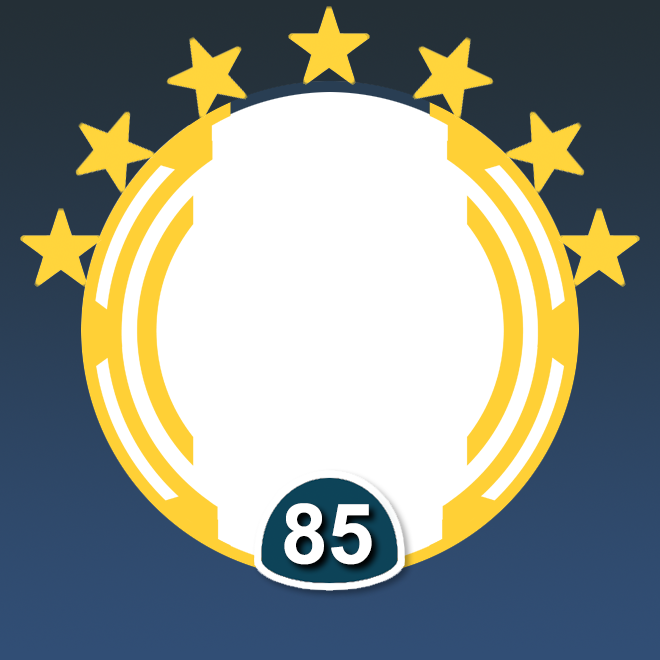
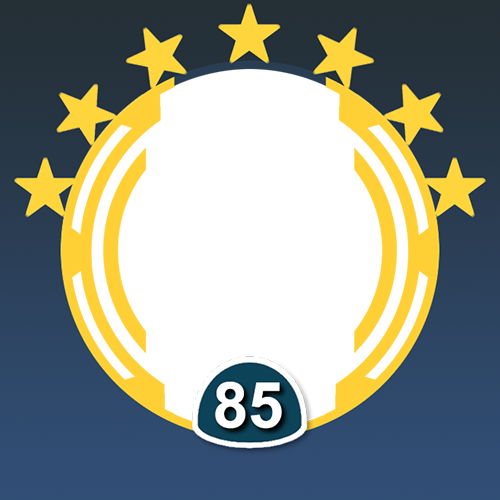
stars vs no stars

diff --git a/photo.js b/photo.js
@@ -11,13 +11,14 @@ $(document).ready(function() {
 	//	input.addEventListener( 'focus', function(){ input.classList.add( 'has-focus' ); });
 	//	input.addEventListener( 'blur', function(){ input.classList.remove( 'has-focus' ); });
 
-	$('#overlay').on('mousedown',photo_MouseDownImage);
-	$('#overlay').on('touchstart',photo_TouchStartImage);
-	$('#overlay').on('touchmove',photo_TouchMoveImage);
+	$('.overlay').on('mousedown',photo_MouseDownImage);
+	$('.overlay').on('touchstart',photo_TouchStartImage);
+	$('.overlay').on('touchmove',photo_TouchMoveImage);
 
 	$('#magup').on('click',photo_magup);
 	$('#magdown').on('click',photo_magdown);
 	$('#rotate').on('click',photo_rotate);
+	$('#stars').on('click',switchStars);
 
 	$('#js_startWebcam').on("click",connectWebCam);
 	$('#js_takePhoto').on("click",takePhoto);
@@ -203,8 +204,8 @@ function putImgIntoCanvas(img,x,y,scale) {
 	var ct = canvas.getContext('2d');
 
 	//The width and height of the destination canvas without scaling
-	var dimx = 660; 
-	var dimy = 660;
+	var dimx = 500; 
+	var dimy = 500;
 	var startX = 0;
 	var startY = 0;
 
@@ -231,10 +232,11 @@ function putImgIntoCanvas(img,x,y,scale) {
 }
 
 function putOverlayIntoCanvas() {
-	var img = $('#overlay')[0];
+	var img = $('#overlay2')[0];
+	if($("#stars").is(':checked')) img = $('#overlay1')[0];
 
-	var width = 660; //The width and height of the image region to copy into the canvas
-	var height = 660;
+	var width = 500; //The width and height of the image region to copy into the canvas
+	var height = 500;
 
 	var canvas = $('#canvasOut')[0];
 	var ct = canvas.getContext('2d');
@@ -336,12 +338,18 @@ function photo_MouseDownImage(event) {
 	event.preventDefault();
 	// console.log("Mouse Image",event);
 
-	$('#overlay').on('mousemove', photo_MouseMoveImage);
-	$('#overlay').on('mouseup', photo_MouseUpImage);
-	$('#overlay').on('mouseout', photo_MouseOutImage);
+	$('.overlay').on('mousemove', photo_MouseMoveImage);
+	$('.overlay').on('mouseup', photo_MouseUpImage);
+	$('.overlay').on('mouseout', photo_MouseOutImage);
 
 	startX = event.offsetX;
 	startY = event.offsetY;
+
+	var container = $('#canvasContainer');
+	if(container.hasClass("rotateUp")) { startX=-startX;startY=-startY; }
+	else if(container.hasClass("rotateRight")) { var tmp = startX; startX=startY;startY=-tmp; }
+	else if(container.hasClass("rotateLeft")) { var tmp = startX; startX=-startY;startY=tmp; }
+
 	// console.log(startX,startY);
 }
 
@@ -359,7 +367,7 @@ function photo_TouchStartImage(event) {
 		else if(container.hasClass("rotateRight")) { var tmp = startX; startX=startY;startY=-tmp; }
 		else if(container.hasClass("rotateLeft")) { var tmp = startX; startX=-startY;startY=tmp; }
 
-		$('#overlay').on('touchend', photo_TouchEndImage);
+		$('.overlay').on('touchend', photo_TouchEndImage);
 	}
 }
 
@@ -367,10 +375,15 @@ function photo_MouseMoveImage(event) {
 	var mouseX = event.offsetX;
 	var mouseY = event.offsetY;
 
+	var container = $('#canvasContainer');
+	if(container.hasClass("rotateUp")) { mouseX=-mouseX;mouseY=-mouseY; }
+	else if(container.hasClass("rotateRight")) { var tmp = mouseX; mouseX=mouseY;mouseY=-tmp; }
+	else if(container.hasClass("rotateLeft")) { var tmp = mouseX; mouseX=-mouseY;mouseY=tmp; }
+	
 	photo_moveImage(mouseX,mouseY,startX,startY);
 
-	startX = event.offsetX;
-	startY = event.offsetY;
+	startX = mouseX;
+	startY = mouseY;
 }
 
 function photo_TouchMoveImage(event) {
@@ -396,21 +409,21 @@ function photo_TouchMoveImage(event) {
 }
 
 function photo_MouseUpImage(event) {
-	$('#overlay').off('mousemove');
-	$('#overlay').off('mouseup');
-	$('#overlay').off('mouseout');
+	$('.overlay').off('mousemove');
+	$('.overlay').off('mouseup');
+	$('.overlay').off('mouseout');
 	finishCrop();
 }
 
 function photo_MouseOutImage(event) {
-	$('#overlay').off('mousemove');
-	$('#overlay').off('mouseup');
-	$('#overlay').off('mouseout');
+	$('.overlay').off('mousemove');
+	$('.overlay').off('mouseup');
+	$('.overlay').off('mouseout');
 	finishCrop();
 }
 
 function photo_TouchEndImage(event) {
-	$('#overlay').off('touchend');
+	$('.overlay').off('touchend');
 	finishCrop();
 }
 
@@ -430,10 +443,12 @@ function photo_moveImage(mouseX,mouseY,strtX,strtY) {
 	y += Number(difY);
 
 	//prevent croping past boundry of image
-	if(x>30) x = 30; //this is hard coded to the inner dimensions of the transparent area. Set to 0 if no overlay
-	if(y>30) y = 30;
-	if(x<-(size[0]-width)-30) x = -(size[0]-width)-30;
-	if(y<-(size[1]-height)-30) y = -(size[1]-height)-30;
+	var buffer = 0;
+	if($("#stars").is(':checked')) buffer = 35;
+	if(x>buffer) x = buffer; //this is hard coded to the inner dimensions of the transparent area. Set to 0 if no overlay
+	if(y>buffer) y = buffer;
+	if(x<-(size[0]-width)-buffer) x = -(size[0]-width)-buffer;
+	if(y<-(size[1]-height)-buffer) y = -(size[1]-height)-buffer;
 
 	//console.log(x,y,difX,difY,size);
 	$('#canvasCrop').css("background-position",parseInt(x)+"px "+parseInt(y)+"px");	
@@ -511,6 +526,16 @@ function photo_rotate(event) {
 	finishCrop();
 }
 
+function switchStars() {
+	if($("#stars").is(':checked')) {
+		$("#overlay2").hide();
+		$("#overlay1").show();
+	} else {
+		$("#overlay1").hide();
+		$("#overlay2").show();
+	}
+	finishCrop();
+}
 
 
 //pass in the name of a property with an px value or x/y pixel value 

diff --git a/avatar.html b/avatar.html
@@ -34,7 +34,7 @@
 	z-index: 1;
 }
 
-#overlay {
+.overlay {
 	width: 300px;
 	height: 300px;
 	position: absolute;
@@ -42,6 +42,10 @@
 	margin-left: 3px;
 	z-index: 2;
 	cursor: move;
+}
+
+#overlay2 {
+	display: none;
 }
 
 #controls {
@@ -250,7 +254,8 @@ p#cropLabel {
 			<p id="error" class="small dim" style="display:none;"><b>Oops!</b> The file you uploaded was either too big or was not an image. Please choose a file with the extension .gif, .png or .jpg.</p>
 
 			<div id="canvasContainer">
-				<img src="images/avatar.png" id="overlay" />
+				<img src="images/avatar.png" id="overlay1" class="overlay" />
+				<img src="images/avatar2.png" id="overlay2" class="overlay" />
 				<div id="canvasCrop"></div>
 			</div>
 			<p id="cropLabel" style="display:none">Drag image to crop</p>
@@ -271,6 +276,7 @@ p#cropLabel {
 			</div>
 
 			<div id="downloadbuttons">
+				<input type="checkbox" id="stars" value="1" checked="checked" />Show Stars<br /><br /><br />
 				<a class="btn" id="js_download">Download SWGOH Avatar</a>
 			</div>
 			<div id="uploadbuttons">
@@ -284,7 +290,7 @@ p#cropLabel {
 
 			<!-- Invisible But necessary elements -->
 			<img src="images/sampleBlank.png" id="sample" style="display:none;" />
-			<canvas width="660" height="660" id="canvasOut" style="display:none;"></canvas>
+			<canvas width="500" height="500" id="canvasOut" style="display:none;"></canvas>
 			<!-- Invisible But necessary elements -->
 
 			<p id="webcamerror">There was a "<span id="errordetails"></span>" error connecting to your webcam. Sorry!  Please make sure that you have a webcam and that you give permission for our website to access it.</p>
